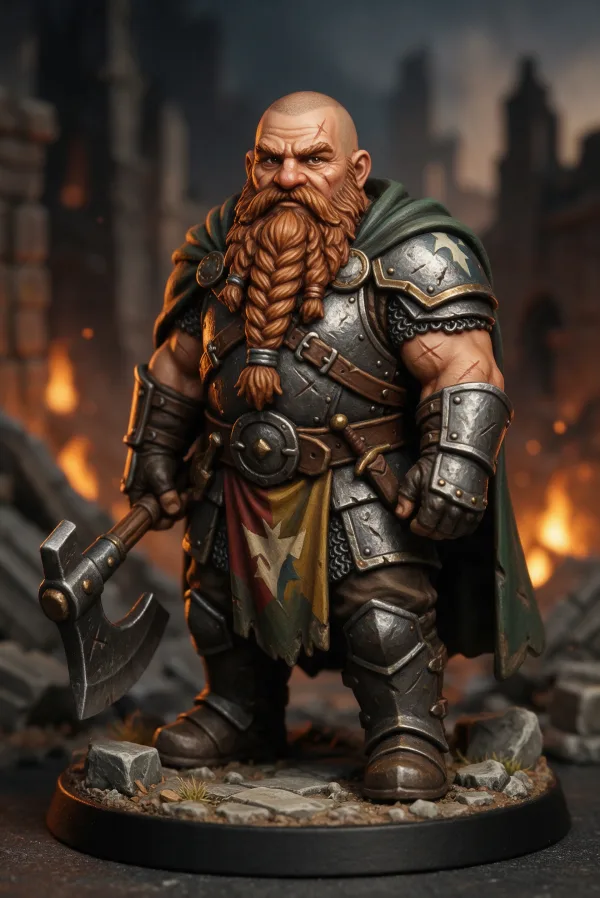
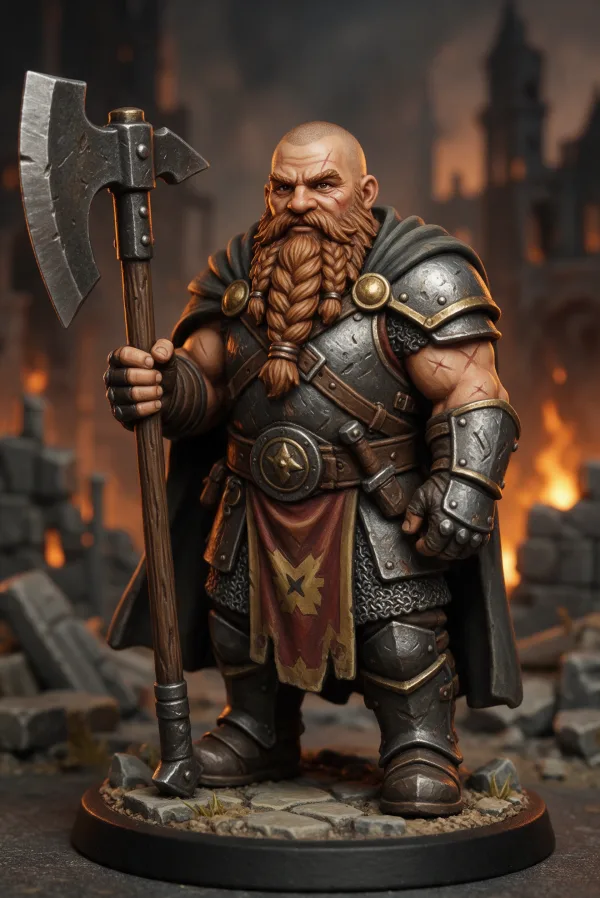
New miniatures from the full-body prompt; two-model miniature comparison
Seedream and Nano Banana runs of the updated Painted miniature prompt. #13
now uses the Seedream one and matches the current builder. Comparison grids
and overview cards size themselves by the number of models.

diff --git a/public/gallery/compare/dwarf-warrior-miniature/index.html b/public/gallery/compare/dwarf-warrior-miniature/index.html
@@ -1,0 +1,127 @@
+<!DOCTYPE html>
+<html lang="en">
+<head>
+<meta charset="UTF-8">
+<meta name="viewport" content="width=device-width, initial-scale=1, viewport-fit=cover">
+<title>Dwarf Warrior Miniature: One Prompt, Two AI Models Compared | Tavern Portraits</title>
+<meta name="description" content="The same Dwarf Warrior Miniature prompt run on Seedream 5 Pro, Nano Banana 2.1: see how each AI image model interprets it, with the exact prompt and honest notes.">
+<link rel="canonical" href="https://tavernportraits.com/gallery/compare/dwarf-warrior-miniature/">
+<meta property="og:type" content="article">
+<meta property="og:site_name" content="Tavern Portraits">
+<meta property="og:title" content="Dwarf Warrior Miniature: one prompt, two AI models">
+<meta property="og:description" content="The same Dwarf Warrior Miniature prompt run on Seedream 5 Pro, Nano Banana 2.1: see how each AI image model interprets it, with the exact prompt and honest notes.">
+<meta property="og:url" content="https://tavernportraits.com/gallery/compare/dwarf-warrior-miniature/">
+<meta property="og:image" content="https://tavernportraits.com/gallery/img/compare-dwarf-warrior-miniature-seedream-full.webp">
+<link rel="preconnect" href="https://fonts.googleapis.com">
+<link rel="preconnect" href="https://fonts.gstatic.com" crossorigin>
+<link href="https://fonts.googleapis.com/css2?family=Cinzel:wght@500;700&family=Inter:wght@400;500;600&family=JetBrains+Mono:wght@400;500&display=swap" rel="stylesheet">
+<link rel="stylesheet" href="/styles.css">
+</head>
+<body>
+<div class="wrap">
+  <header>
+    <p class="breadcrumb"><a href="/gallery/">&larr; Character Gallery</a></p>
+    <h1>Dwarf Warrior Miniature: one prompt, two models</h1>
+    <p>The same dwarf with the Painted miniature style, which always asks for a full-body figure on its round base. One prompt, sent unchanged to two image models on OpenMov, and two very different takes on a painted mini.</p>
+  </header>
+
+  <main>
+    <div class="compare-grid" style="--cols: 2">
+      <figure class="character-img compare-item">
+        <a href="/gallery/img/compare-dwarf-warrior-miniature-seedream-full.webp"><img src="/gallery/img/compare-dwarf-warrior-miniature-seedream-600.webp" width="600" height="898" alt="AI-generated image of a painted tabletop miniature of a bald dwarf warrior with a braided ginger beard, dark plate armour with gold trim, a red and gold tabard and a tall two-handed greataxe, standing on a round base in front of a burning ruined city"></a>
+        <figcaption>
+          <span class="chip model">Seedream 5 Pro</span>
+          <p class="note">Exactly what the new framing was meant to fix: the whole figure and its round base are in view. The paint job is bold and colourful, with a red and gold star tabard, a ginger braided beard and gold trim on the armour, in front of a burning-city backdrop. The greataxe is now a proper long-hafted two-hander, held upright like a staff.</p>
+          <p class="original"><a href="/gallery/original/compare-dwarf-warrior-miniature-seedream.png">View original file</a> (PNG, 6.6 MB): the full-size image exactly as downloaded from OpenMov, before it was resized for the web.</p>
+        </figcaption>
+      </figure>
+      <figure class="character-img compare-item">
+        <a href="/gallery/img/compare-dwarf-warrior-miniature-nano-banana-full.webp"><img src="/gallery/img/compare-dwarf-warrior-miniature-nano-banana-600.webp" width="600" height="895" alt="AI-generated image of a painted tabletop miniature of a bald dwarf warrior with a braided beard, bronze plate armour and a two-handed greataxe, standing on a round base among ruined stone wall terrain with a small campfire"></a>
+        <figcaption>
+          <span class="chip model">Nano Banana 2.1</span>
+          <p class="note">This really looks like a photo of a painted figure on a gaming table, with blurred ruined-wall terrain and a little campfire behind. The whole mini and its base are in view, and the greataxe is held across the body in both hands. The paint scheme is muted bronze and grey rather than colourful, and the cloak barely shows.</p>
+          <p class="original"><a href="/gallery/original/compare-dwarf-warrior-miniature-nano-banana.png">View original file</a> (PNG, 6.5 MB): the full-size image exactly as downloaded from OpenMov, before it was resized for the web.</p>
+        </figcaption>
+      </figure>
+    </div>
+
+    <div class="panel character-info compare-prompt">
+      <h2>The prompt</h2>
+      <pre class="prompt" id="prompt">Generate an image.
+
+SUBJECT
+A middle-aged, stocky male dwarf, short and broad-shouldered, with a sturdy frame and a thick, braided beard, portrayed as a warrior, in practical, battle-worn gear, with visible scars and a well-used weapon. A fantasy tabletop RPG character.
+
+APPEARANCE
+hair: shaved, eyes: brown, skin: tan, expression: determined.
+
+GEAR
+wearing plate, carrying a massive two-handed greataxe with a long haft and a broad, heavy blade, accessories: cloak, pauldron, gauntlets, tabard.
+
+SCENE
+Framing: full-body shot, the entire figure visible from head to toe, standing on its round base. Pose: relaxed stance. Setting: ruined city. Lighting: warm firelight.
+
+STYLE
+A hand-painted tabletop miniature figure on a round base, photographed close up, with fine brushwork, crisp highlights, and the setting shown as a small painted diorama.
+
+REQUIREMENTS
+A single character, clearly the focus of the image. Correct anatomy with natural hands. No text, lettering, logos, brand marks, captions, watermarks, signatures, or borders.</pre>
+      <div class="actions">
+        <a class="button" href="/?ruleset=Generic+Fantasy&amp;ancestry=Dwarf&amp;class=Warrior&amp;gender=Male&amp;age=Middle-aged&amp;build=Stocky&amp;hair=Shaved&amp;eyes=Brown&amp;skin=Tan&amp;expression=Determined&amp;weapon=Greataxe&amp;armour=Plate&amp;accessories=Cloak%2CPauldron%2CGauntlets%2CTabard&amp;framing=Full+body&amp;setting=Ruined+city&amp;lighting=Warm+firelight&amp;pose=Relaxed+stance&amp;style=Painted+miniature&amp;target-model=Most+models+%28GPT+Image%2C+Seedream%2C+etc.%29">Try this character</a>
+        <button type="button" id="copy-prompt">Copy prompt</button>
+      </div>
+
+
+      <h2>Builder settings</h2>
+      <dl class="settings">
+        <dt>Ruleset</dt><dd>Generic Fantasy</dd>
+        <dt>Ancestry</dt><dd>Dwarf</dd>
+        <dt>Class</dt><dd>Warrior</dd>
+        <dt>Gender</dt><dd>Male</dd>
+        <dt>Age</dt><dd>Middle-aged</dd>
+        <dt>Build</dt><dd>Stocky</dd>
+        <dt>Hair</dt><dd>Shaved</dd>
+        <dt>Eyes</dt><dd>Brown</dd>
+        <dt>Skin</dt><dd>Tan</dd>
+        <dt>Expression</dt><dd>Determined</dd>
+        <dt>Weapon</dt><dd>Greataxe</dd>
+        <dt>Armour</dt><dd>Plate</dd>
+        <dt>Accessories</dt><dd>Cloak, Pauldron, Gauntlets, Tabard</dd>
+        <dt>Framing</dt><dd>Full body</dd>
+        <dt>Setting</dt><dd>Ruined city</dd>
+        <dt>Lighting</dt><dd>Warm firelight</dd>
+        <dt>Pose</dt><dd>Relaxed stance</dd>
+        <dt>Art style</dt><dd>Painted miniature</dd>
+        <dt>Image model</dt><dd>Most models (GPT Image, Seedream, etc.)</dd>
+      </dl>
+    </div>
+
+
+  </main>
+
+  <p class="ai-note">All images are AI-generated and shown exactly as each model produced them, with no retouching or cropping.</p>
+
+  <footer class="site-footer">
+    <span>&copy; 2026 Tavern Portraits</span>
+    <a href="/">Prompt builder</a>
+    <a href="/gallery/">Gallery</a>
+    <a href="/privacy.html">Privacy policy</a>
+  </footer>
+</div>
+
+<script>
+document.getElementById("copy-prompt").addEventListener("click", () => {
+  const btn = document.getElementById("copy-prompt");
+  navigator.clipboard.writeText(document.getElementById("prompt").textContent).then(() => {
+    btn.textContent = "Copied!";
+    btn.classList.add("copied");
+    clearTimeout(btn._reset);
+    btn._reset = setTimeout(() => {
+      btn.textContent = "Copy prompt";
+      btn.classList.remove("copied");
+    }, 1600);
+  });
+});
+</script>
+</body>
+</html>

diff --git a/public/gallery/index.html b/public/gallery/index.html
@@ -28,7 +28,10 @@
 
   <section class="comparisons" aria-labelledby="compare-heading">
     <h2 id="compare-heading">Model comparisons</h2>
-    <a class="compare-card" href="/gallery/compare/dwarf-warrior/"><span class="compare-thumbs"><img src="/gallery/img/compare-dwarf-warrior-seedream-600.webp" width="600" height="898" alt="" loading="lazy"><img src="/gallery/img/compare-dwarf-warrior-nano-banana-600.webp" width="600" height="895" alt="" loading="lazy"><img src="/gallery/img/compare-dwarf-warrior-qwen-600.webp" width="600" height="901" alt="" loading="lazy"><img src="/gallery/img/compare-dwarf-warrior-wan-600.webp" width="600" height="901" alt="" loading="lazy"></span><span class="card-body"><span class="card-title">Dwarf Warrior: one prompt, four models</span><span class="chips"><span class="chip model">Seedream 5 Pro</span><span class="chip model">Nano Banana 2.1</span><span class="chip model">Qwen Image Pro</span><span class="chip model">WAN 2.7 Pro</span></span></span></a>
+    <div class="comparison-list">
+    <a class="compare-card" href="/gallery/compare/dwarf-warrior/" style="--cols: 4"><span class="compare-thumbs"><img src="/gallery/img/compare-dwarf-warrior-seedream-600.webp" width="600" height="898" alt="" loading="lazy"><img src="/gallery/img/compare-dwarf-warrior-nano-banana-600.webp" width="600" height="895" alt="" loading="lazy"><img src="/gallery/img/compare-dwarf-warrior-qwen-600.webp" width="600" height="901" alt="" loading="lazy"><img src="/gallery/img/compare-dwarf-warrior-wan-600.webp" width="600" height="901" alt="" loading="lazy"></span><span class="card-body"><span class="card-title">Dwarf Warrior: one prompt, four models</span><span class="chips"><span class="chip model">Seedream 5 Pro</span><span class="chip model">Nano Banana 2.1</span><span class="chip model">Qwen Image Pro</span><span class="chip model">WAN 2.7 Pro</span></span></span></a>
+    <a class="compare-card" href="/gallery/compare/dwarf-warrior-miniature/" style="--cols: 2"><span class="compare-thumbs"><img src="/gallery/img/compare-dwarf-warrior-miniature-seedream-600.webp" width="600" height="898" alt="" loading="lazy"><img src="/gallery/img/compare-dwarf-warrior-miniature-nano-banana-600.webp" width="600" height="895" alt="" loading="lazy"></span><span class="card-body"><span class="card-title">Dwarf Warrior Miniature: one prompt, two models</span><span class="chips"><span class="chip model">Seedream 5 Pro</span><span class="chip model">Nano Banana 2.1</span></span></span></a>
+    </div>
   </section>
 
   <h2 class="section-heading">All characters</h2>
@@ -53,7 +56,7 @@
     <a class="card" href="/gallery/lizardfolk-ranger/" data-family="WAN"><img src="/gallery/img/10-lizardfolk-ranger-600.webp" width="600" height="901" alt="AI-generated illustration of a green-scaled lizardfolk ranger with gold eyes and a long tail, wearing studded leather and a quiver of arrows, holding a longbow while striding through a misty swamp" loading="lazy"><span class="card-body"><span class="card-title">Lizardfolk Ranger</span><span class="chips"><span class="chip model">WAN 2.7 Pro</span><span class="chip">Painterly fantasy illustration</span></span></span></a>
     <a class="card" href="/gallery/undead-wizard/" data-family="Seedream"><img src="/gallery/img/11-undead-wizard-600.webp" width="600" height="898" alt="AI-generated dark fantasy painting of a gaunt undead wizard with glowing white eyes, grey skin and long white hair, wearing a circlet and embroidered vestments, raising a clawed hand among glowing runes in a stone dungeon" loading="lazy"><span class="card-body"><span class="card-title">Undead Wizard</span><span class="chips"><span class="chip model">Seedream 5 Pro</span><span class="chip">Dark fantasy painting</span></span></span></a>
     <a class="card" href="/gallery/orc-barbarian/" data-family="WAN"><img src="/gallery/img/12-orc-barbarian-600.webp" width="600" height="901" alt="AI-generated concept art of a muscular green-skinned orc woman with black hair, tusks and red war paint, wearing fur-trimmed leather and a dark cloak, carrying a double-bladed greataxe across a frozen tundra" loading="lazy"><span class="card-body"><span class="card-title">Orc Barbarian</span><span class="chips"><span class="chip model">WAN 2.7 Pro</span><span class="chip">Digital concept art</span></span></span></a>
-    <a class="card" href="/gallery/dwarf-warrior-miniature/" data-family="Seedream"><img src="/gallery/img/13-dwarf-warrior-miniature-600.webp" width="600" height="898" alt="AI-generated image of a painted tabletop miniature of a bald dwarf warrior with a braided ginger beard, plate armour, green cloak, star tabard and an axe, standing on a round base in front of a small burning-ruins diorama" loading="lazy"><span class="card-body"><span class="card-title">Dwarf Warrior Miniature</span><span class="chips"><span class="chip model">Seedream 5 Pro</span><span class="chip">Painted miniature</span></span></span></a>
+    <a class="card" href="/gallery/dwarf-warrior-miniature/" data-family="Seedream"><img src="/gallery/img/13-dwarf-warrior-miniature-600.webp" width="600" height="898" alt="AI-generated image of a painted tabletop miniature of a bald dwarf warrior with a braided ginger beard, dark plate armour with gold trim, a red and gold tabard and a tall two-handed greataxe, standing on a round base in front of a burning ruined city" loading="lazy"><span class="card-body"><span class="card-title">Dwarf Warrior Miniature</span><span class="chips"><span class="chip model">Seedream 5 Pro</span><span class="chip">Painted miniature</span></span></span></a>
   </div>
 
   <footer class="site-footer">

diff --git a/public/gallery/dwarf-warrior-miniature/index.html b/public/gallery/dwarf-warrior-miniature/index.html
@@ -27,19 +27,19 @@
 
   <main class="character">
     <figure class="character-img">
-      <img src="/gallery/img/13-dwarf-warrior-miniature-full.webp" width="1200" height="1795" alt="AI-generated image of a painted tabletop miniature of a bald dwarf warrior with a braided ginger beard, plate armour, green cloak, star tabard and an axe, standing on a round base in front of a small burning-ruins diorama">
-      <figcaption><a href="/gallery/original/13-dwarf-warrior-miniature.png">View original file</a> (PNG, 6.3 MB): the full-size image exactly as downloaded from OpenMov, before it was resized for the web.</figcaption>
+      <img src="/gallery/img/13-dwarf-warrior-miniature-full.webp" width="1200" height="1795" alt="AI-generated image of a painted tabletop miniature of a bald dwarf warrior with a braided ginger beard, dark plate armour with gold trim, a red and gold tabard and a tall two-handed greataxe, standing on a round base in front of a burning ruined city">
+      <figcaption><a href="/gallery/original/13-dwarf-warrior-miniature.png">View original file</a> (PNG, 6.6 MB): the full-size image exactly as downloaded from OpenMov, before it was resized for the web.</figcaption>
     </figure>
 
     <div class="panel character-info">
       <div class="chips">
         <span class="chip model">Seedream 5 Pro</span>
         <span class="chip">Painted miniature</span>
-        <span class="chip">Three-quarter</span>
+        <span class="chip">Full body</span>
       </div>
 
       <h2>How it turned out</h2>
-      <p class="note">It really does look like a painted figure on your gaming table: a round black base, glossy highlights on the armour and a tiny diorama of burning ruins behind. Seedream gave him a ginger beard and a colourful star tabard. As in the photorealistic versions, the greataxe shrank to a one-handed axe. This is the same character as the four-model comparison, with only the art style changed.</p>
+      <p class="note">Exactly what the new framing was meant to fix: the whole figure and its round base are in view. The paint job is bold and colourful, with a red and gold star tabard, a ginger braided beard and gold trim on the armour, in front of a burning-city backdrop. The greataxe is now a proper long-hafted two-hander, held upright like a staff. It&#x27;s the same character as the photorealistic four-model comparison, with only the art style changed.</p>
 
       <h2>The prompt</h2>
       <pre class="prompt" id="prompt">Generate an image.
@@ -51,10 +51,10 @@ APPEARANCE
 hair: shaved, eyes: brown, skin: tan, expression: determined.
 
 GEAR
-wearing plate, carrying greataxe, accessories: cloak, pauldron, gauntlets, tabard.
+wearing plate, carrying a massive two-handed greataxe with a long haft and a broad, heavy blade, accessories: cloak, pauldron, gauntlets, tabard.
 
 SCENE
-Framing: three-quarter shot, framed from the knees up. Pose: relaxed stance. Setting: ruined city. Lighting: warm firelight.
+Framing: full-body shot, the entire figure visible from head to toe, standing on its round base. Pose: relaxed stance. Setting: ruined city. Lighting: warm firelight.
 
 STYLE
 A hand-painted tabletop miniature figure on a round base, photographed close up, with fine brushwork, crisp highlights, and the setting shown as a small painted diorama.
@@ -62,10 +62,10 @@ A hand-painted tabletop miniature figure on a round base, photographed close up,
 REQUIREMENTS
 A single character, clearly the focus of the image. Correct anatomy with natural hands. No text, lettering, logos, brand marks, captions, watermarks, signatures, or borders.</pre>
       <div class="actions">
-        <a class="button" href="/?ruleset=Generic+Fantasy&amp;ancestry=Dwarf&amp;class=Warrior&amp;gender=Male&amp;age=Middle-aged&amp;build=Stocky&amp;hair=Shaved&amp;eyes=Brown&amp;skin=Tan&amp;expression=Determined&amp;weapon=Greataxe&amp;armour=Plate&amp;accessories=Cloak%2CPauldron%2CGauntlets%2CTabard&amp;framing=Three-quarter&amp;setting=Ruined+city&amp;lighting=Warm+firelight&amp;pose=Relaxed+stance&amp;style=Painted+miniature&amp;target-model=Most+models+%28GPT+Image%2C+Seedream%2C+etc.%29">Try this character</a>
+        <a class="button" href="/?ruleset=Generic+Fantasy&amp;ancestry=Dwarf&amp;class=Warrior&amp;gender=Male&amp;age=Middle-aged&amp;build=Stocky&amp;hair=Shaved&amp;eyes=Brown&amp;skin=Tan&amp;expression=Determined&amp;weapon=Greataxe&amp;armour=Plate&amp;accessories=Cloak%2CPauldron%2CGauntlets%2CTabard&amp;framing=Full+body&amp;setting=Ruined+city&amp;lighting=Warm+firelight&amp;pose=Relaxed+stance&amp;style=Painted+miniature&amp;target-model=Most+models+%28GPT+Image%2C+Seedream%2C+etc.%29">Try this character</a>
         <button type="button" id="copy-prompt">Copy prompt</button>
       </div>
-      <p class="builder-note">The builder has been improved since this image was made, so these settings now give a slightly different prompt from the one shown above.</p>
+
 
       <h2>Builder settings</h2>
       <dl class="settings">
@@ -82,7 +82,7 @@ A single character, clearly the focus of the image. Correct anatomy with natural
         <dt>Weapon</dt><dd>Greataxe</dd>
         <dt>Armour</dt><dd>Plate</dd>
         <dt>Accessories</dt><dd>Cloak, Pauldron, Gauntlets, Tabard</dd>
-        <dt>Framing</dt><dd>Three-quarter</dd>
+        <dt>Framing</dt><dd>Full body</dd>
         <dt>Setting</dt><dd>Ruined city</dd>
         <dt>Lighting</dt><dd>Warm firelight</dd>
         <dt>Pose</dt><dd>Relaxed stance</dd>

diff --git a/public/styles.css b/public/styles.css
@@ -502,7 +502,10 @@ a.button:hover { filter: brightness(1.05); }
   margin: 28px 0 14px;
 }
 .comparisons { margin-bottom: 8px; }
+.comparison-list { display: flex; flex-wrap: wrap; gap: 18px; margin-bottom: 18px; }
+/* Cards grow in proportion to their number of images, so every thumbnail is the same size. */
 .compare-card {
+  flex: var(--cols, 4) 1 calc(var(--cols, 4) * 140px);
   display: block;
   text-decoration: none;
   color: inherit;
@@ -510,17 +513,16 @@ a.button:hover { filter: brightness(1.05); }
   border-radius: 16px;
   overflow: hidden;
   background: var(--panel);
-  margin-bottom: 18px;
   transition: transform 0.15s ease, border-color 0.15s ease;
 }
 .compare-card:hover, .compare-card:focus-visible { transform: translateY(-2px); border-color: var(--ember); }
 .compare-card:focus-visible { outline: 2px solid var(--gold); outline-offset: 3px; }
-.compare-thumbs { display: grid; grid-template-columns: repeat(4, 1fr); gap: 2px; background: var(--input); }
+.compare-thumbs { display: grid; grid-template-columns: repeat(var(--cols, 4), 1fr); gap: 2px; background: var(--input); }
 .compare-thumbs img { display: block; width: 100%; height: auto; }
 .compare-card .chips { margin-top: 8px; }
 .compare-grid {
   display: grid;
-  grid-template-columns: repeat(4, minmax(0, 1fr));
+  grid-template-columns: repeat(var(--cols, 4), minmax(0, 1fr));
   gap: 18px;
   align-items: start;
   margin-bottom: 26px;
@@ -553,3 +555,4 @@ a.button:hover { filter: brightness(1.05); }
 .field-hint { display: block; margin-top: 6px; font-size: 12.5px; font-weight: 400; color: var(--muted); }
 select:disabled { opacity: 0.6; cursor: not-allowed; }
 .builder-note { margin: 10px 0 0; font-size: 13px; color: var(--muted); }
+.compare-grid[style*="--cols: 2"] { max-width: 820px; }

diff --git a/public/gallery/compare/dwarf-warrior/index.html b/public/gallery/compare/dwarf-warrior/index.html
@@ -26,7 +26,7 @@
   </header>
 
   <main>
-    <div class="compare-grid">
+    <div class="compare-grid" style="--cols: 4">
       <figure class="character-img compare-item">
         <a href="/gallery/img/compare-dwarf-warrior-seedream-full.webp"><img src="/gallery/img/compare-dwarf-warrior-seedream-600.webp" width="600" height="898" alt="AI-generated photorealistic image of a bald dwarf warrior with a braided red-brown beard, plate armour, a dark cloak and star tabard, holding an axe in burning city ruins at dusk"></a>
         <figcaption>
@@ -113,7 +113,7 @@ A single character, clearly the focus of the image. Correct anatomy with natural
     </div>
 
     <a class="panel related" href="/gallery/dwarf-warrior-miniature/">
-      <img src="/gallery/img/13-dwarf-warrior-miniature-600.webp" width="600" height="898" alt="AI-generated image of a painted tabletop miniature of a bald dwarf warrior with a braided ginger beard, plate armour, green cloak, star tabard and an axe, standing on a round base in front of a small burning-ruins diorama" loading="lazy">
+      <img src="/gallery/img/13-dwarf-warrior-miniature-600.webp" width="600" height="898" alt="AI-generated image of a painted tabletop miniature of a bald dwarf warrior with a braided ginger beard, dark plate armour with gold trim, a red and gold tabard and a tall two-handed greataxe, standing on a round base in front of a burning ruined city" loading="lazy">
       <span><span class="eyebrow-small">Same character, different style</span>
       <span class="card-title">Dwarf Warrior Miniature</span>
       <span class="related-text">The same settings with the art style switched to Painted miniature, made with Seedream 5 Pro. &rarr;</span></span>

diff --git a/gallery/compare.template.html b/gallery/compare.template.html
@@ -26,7 +26,7 @@
   </header>
 
   <main>
-    <div class="compare-grid">
+    <div class="compare-grid" style="--cols: {{COLS}}">
 {{ENTRIES}}
     </div>
 

diff --git a/gallery/build.py b/gallery/build.py
@@ -164,7 +164,7 @@ def build_comparisons(comps, by_slug):
             "DESCRIPTION": e(f"The same {cmp['title']} prompt run on {models}: "
                              f"see how each AI image model interprets it, with the exact prompt and honest notes."),
             "OG_IMAGE": e(cmp["entries"][0]["name"]) + "-full.webp",
-            "INTRO": e(cmp["intro"]), "ENTRIES": "\n".join(entries),
+            "INTRO": e(cmp["intro"]), "ENTRIES": "\n".join(entries), "COLS": str(n),
             "PROMPT": e(cmp["prompt"]), "TRY_URL": e(try_url(cmp["settings"])),
             "SETTINGS": settings_rows(cmp["settings"]), "RELATED": related,
             "BUILDER_NOTE": builder_note(cmp),
@@ -180,13 +180,13 @@ def comparison_cards(comps):
             f'<img src="/gallery/img/{e(en["name"])}-600.webp" width="{en["thumb"][0]}" height="{en["thumb"][1]}" '
             f'alt="" loading="lazy">' for en in cmp["entries"])
         cards.append(
-            f'    <a class="compare-card" href="/gallery/compare/{e(cmp["slug"])}/">'
+            f'    <a class="compare-card" href="/gallery/compare/{e(cmp["slug"])}/" style="--cols: {len(cmp["entries"])}">'
             f'<span class="compare-thumbs">{thumbs}</span>'
             f'<span class="card-body"><span class="card-title">{e(cmp["title"])}: one prompt, '
             f'{count_word(len(cmp["entries"])).lower()} models</span>'
             f'<span class="chips">' + "".join(f'<span class="chip model">{e(en["model"])}</span>' for en in cmp["entries"])
             + '</span></span></a>')
-    return "\n".join(cards)
+    return '    <div class="comparison-list">\n' + "\n".join(cards) + "\n    </div>"
 
 
 def main():
